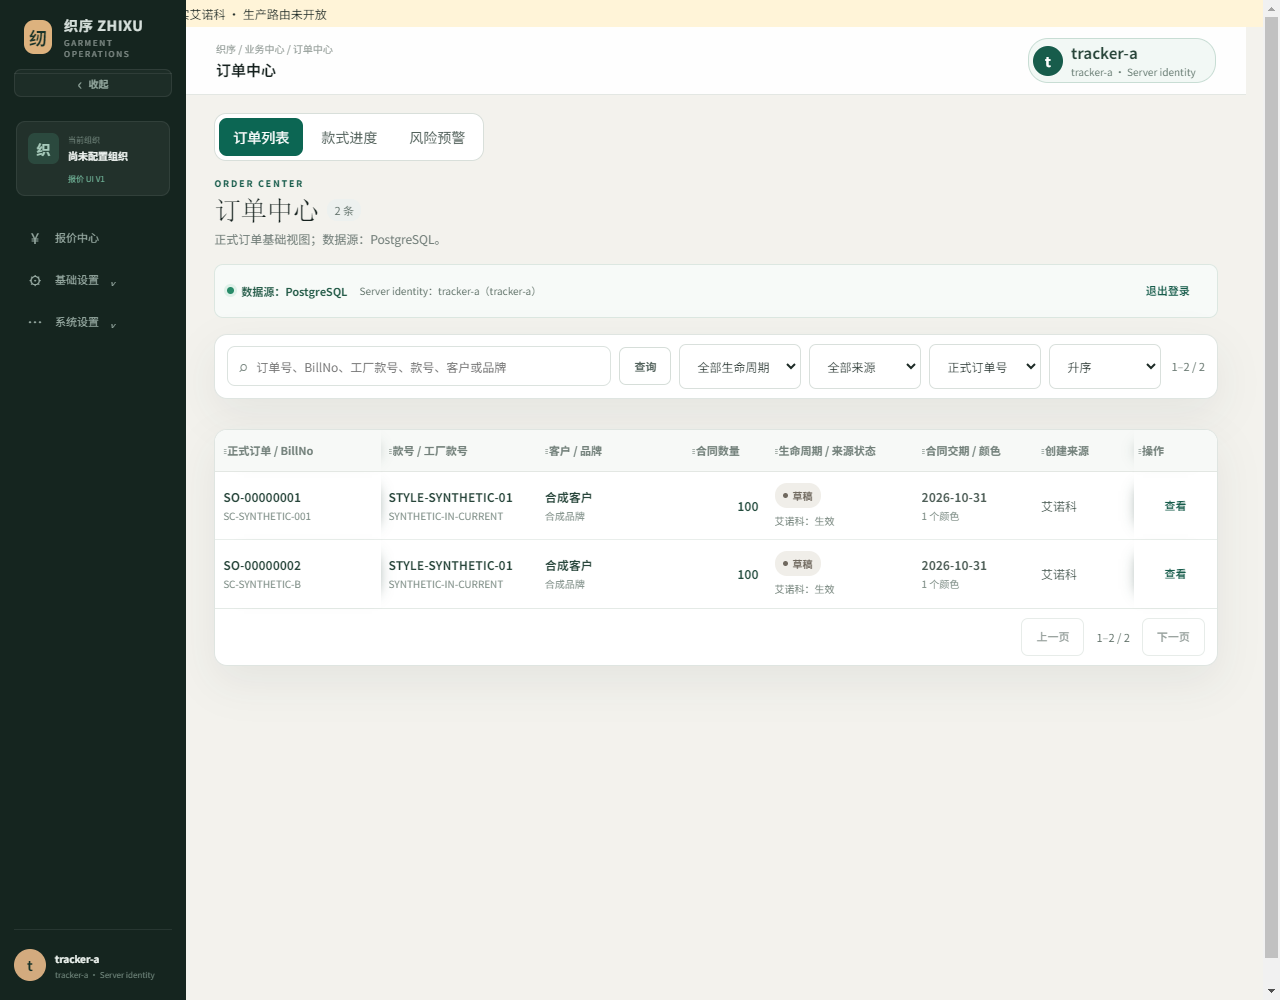
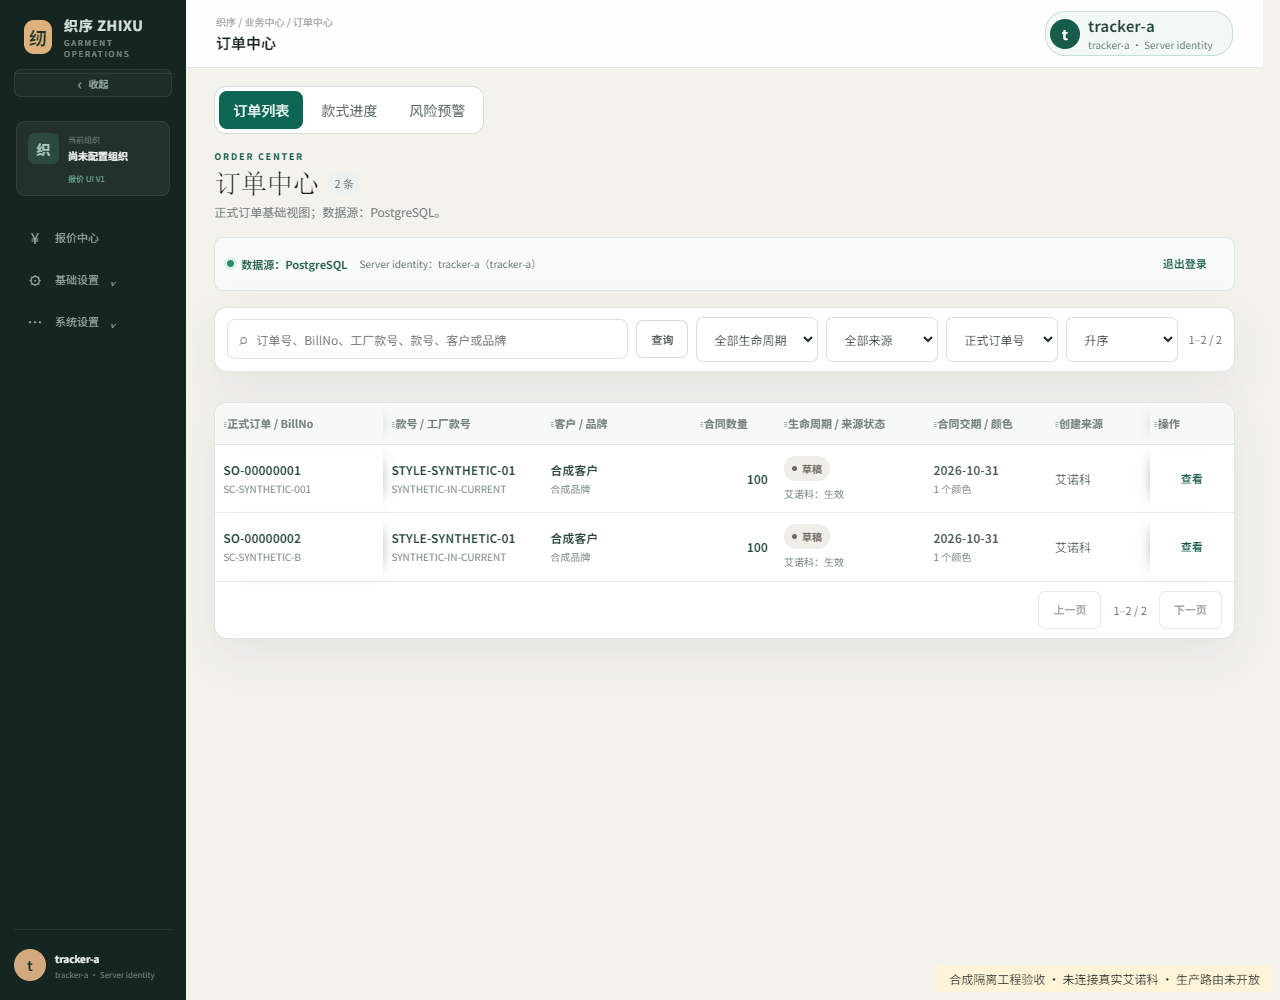
fix(order): compact detail and collapse technical source facts

diff --git a/features/order-center/components/server-sales-order-detail-page.tsx b/features/order-center/components/server-sales-order-detail-page.tsx
@@ -272,11 +272,7 @@ export function ServerSalesOrderDetailPage({ executionOnly = false }: { executio
 
   return (
     <ServerDetailFrame detail={detail}>
-      <div className="oc-server-source-bar">
-        <span><i aria-hidden="true" />数据源：PostgreSQL</span>
-        <small>Server identity：{trustedIdentity}</small>
-        <Button variant="text" onClick={() => void logout()}>退出登录</Button>
-      </div>
+
       {sessionActionError && <ErrorState description={sessionActionError} />}
       {loading ? (
         <LoadingState label="读取 PostgreSQL 正式订单详情" />
@@ -286,62 +282,26 @@ export function ServerSalesOrderDetailPage({ executionOnly = false }: { executio
         <ErrorState title="订单服务暂时不可用" description={error} onRetry={() => void loadDetail()} />
       ) : detail ? (
         <div className="oc-server-detail-content">
-          <Card className="oc-server-detail-section oc-server-detail-zhixu">
-            <header>
-              <div><small>ZHIXU FACTS</small><h2>织序订单事实</h2></div>
-              <span>Server-owned · 只读</span>
-            </header>
-            <DescriptionList columns={3} items={[
-              { key: "orderNo", label: "正式订单号", value: detail.orderNo, secondary: `UUID ${detail.id}` },
-              { key: "version", label: "数据版本", value: `v${detail.version}` },
-              { key: "lifecycle", label: "织序生命周期", value: lifecycleLabels[detail.lifecycleState], secondary: detail.lifecycleState },
-              { key: "creationSource", label: "创建来源", value: creationSourceLabels[detail.creationSource], secondary: detail.creationSource },
-              { key: "createdAt", label: "创建时间", value: detail.createdAt },
-              { key: "updatedAt", label: "更新时间", value: detail.updatedAt },
-            ]} />
-          </Card>
-
-          <Card className="oc-server-detail-section oc-server-detail-source">
-            <header>
-              <div><small>AINUOKE SOURCE FACTS</small><h2>艾诺科来源事实</h2></div>
-              <span>来源权威 · 不可编辑</span>
-            </header>
-            <DescriptionList columns={3} items={[
-              { key: "billNo", label: "BillNo", value: detail.billNo },
-              { key: "insideOrderNo", label: "工厂单号 / InsideOrderNo", value: detail.insideOrderNo, secondary: "可变来源属性，不是稳定订单身份" },
+          <Card className="oc-server-detail-section oc-server-detail-zhixu oc-server-detail-overview">
+            <header><div><h2>订单概况</h2></div><span>来源权威 · 不可编辑</span></header>
+            <DescriptionList columns={3} compact items={[
               { key: "styleNo", label: "款号", value: detail.styleNo },
-              { key: "company", label: "公司", value: detail.companyName },
+              { key: "orderNo", label: "正式订单号", value: detail.orderNo },
+              { key: "billNo", label: "BillNo", value: detail.billNo },
               { key: "customer", label: "客户", value: detail.customerName },
               { key: "brand", label: "品牌", value: detail.brandName },
               { key: "quantity", label: "订单数量（来源只读）", value: detail.quantity?.toLocaleString("zh-CN") },
-              { key: "contractDate", label: "合同日期", value: detail.contractDate },
-              { key: "contractDelivery", label: "工艺单交期（来源）", value: detail.contractDeliveryDate },
+              { key: "contractDelivery", label: "合同交期（来源）", value: detail.contractDeliveryDate },
+              { key: "lifecycle", label: "订单状态", value: lifecycleLabels[detail.lifecycleState] },
               { key: "sourceLifecycle", label: "艾诺科状态", value: detail.sourceLifecycleStatus },
-              { key: "colorCount", label: "有效颜色数", value: detail.colorCount.toLocaleString("zh-CN") },
             ]} />
           </Card>
-
-          <OrderMaterialSummary salesOrderId={detail.id} />
-          {!executionOnly && <Card className="oc-server-detail-section oc-server-detail-commercial-terms">
-            <header>
-              <div><small>SERVER CURRENT TERMS</small><h2>确认商业条款</h2></div>
-              <span>PostgreSQL · v{terms?.current?.version ?? 0}</span>
-            </header>
-            <DescriptionList columns={3} items={[
-              { key: "customerConfirmedPrice", label: "客户确认价格", value: commercialAmount(terms?.current?.customerConfirmedPrice ?? null, "CNY") },
-              { key: "confirmedLaborPrice", label: "确认工价", value: commercialAmount(terms?.current?.confirmedLaborPrice ?? null, terms?.current?.laborCurrency ?? "币种未指定") },
-              { key: "termsLinkage", label: "共享范围", value: terms?.linkage === "linked" ? "精确 Quote provenance 共享" : "仅当前 SalesOrder", secondary: terms?.linkage === "linked" ? `${terms.associatedSalesOrderIds.length} 张正式订单共享` : "未伪造 Quote 关联" },
-            ]} />
-            {serverSession.hasPermission("order.edit")
-              ? <Button variant="secondary" onClick={openTermsEditor}>编辑确认商业条款</Button>
-              : <small>当前账号仅有 order.view；确认商业条款只读。</small>}
-          </Card>}
-
           <Card className="oc-server-detail-section oc-server-detail-colors">
             <header>
-              <div><small>COLOR SOURCE SLICE</small><h2>颜色明细</h2></div>
+              <div><h2>颜色明细</h2></div>
               <span>{detail.colors.length} 个颜色 · 来源只读</span>
             </header>
+            <p className="oc-server-color-note">分码数据尚未接线；不依据颜色数量推算尺码。</p>
             {detail.colors.length === 0 ? (
               <EmptyState compact title="当前订单主档有效；颜色明细暂无有效数据。" description="颜色 enrichment 为空不影响 SalesOrder master 有效性。" />
             ) : (
@@ -358,6 +318,45 @@ export function ServerSalesOrderDetailPage({ executionOnly = false }: { executio
               </div>
             )}
           </Card>
+
+          <OrderMaterialSummary salesOrderId={detail.id} />
+          <Card className="oc-server-detail-section">
+            <details className="oc-server-technical-details">
+              <summary>来源与技术详情 <span>只读</span></summary>
+              <DescriptionList columns={3} compact items={[
+                { key: "uuid", label: "UUID", value: detail.id },
+                { key: "version", label: "数据版本", value: `v${detail.version}` },
+                { key: "creationSource", label: "创建来源", value: creationSourceLabels[detail.creationSource], secondary: detail.creationSource },
+                { key: "lifecycleCode", label: "生命周期原值", value: detail.lifecycleState },
+                { key: "insideOrderNo", label: "工厂单号 / InsideOrderNo", value: detail.insideOrderNo, secondary: "可变来源属性，不是稳定订单身份" },
+                { key: "company", label: "公司", value: detail.companyName },
+                { key: "contractDate", label: "合同日期", value: detail.contractDate },
+                { key: "colorCount", label: "有效颜色数", value: detail.colorCount.toLocaleString("zh-CN") },
+                { key: "createdAt", label: "创建时间", value: detail.createdAt },
+                { key: "updatedAt", label: "更新时间", value: detail.updatedAt },
+              ]} />
+              <div className="oc-server-source-bar">
+                <span><i aria-hidden="true" />数据源：PostgreSQL</span>
+                <small>Server identity：{trustedIdentity}</small>
+                <Button variant="text" onClick={() => void logout()}>退出登录</Button>
+              </div>
+            </details>
+          </Card>
+          {!executionOnly && <Card className="oc-server-detail-section oc-server-detail-commercial-terms">
+            <header>
+              <div><small>SERVER CURRENT TERMS</small><h2>确认商业条款</h2></div>
+              <span>PostgreSQL · v{terms?.current?.version ?? 0}</span>
+            </header>
+            <DescriptionList columns={3} items={[
+              { key: "customerConfirmedPrice", label: "客户确认价格", value: commercialAmount(terms?.current?.customerConfirmedPrice ?? null, "CNY") },
+              { key: "confirmedLaborPrice", label: "确认工价", value: commercialAmount(terms?.current?.confirmedLaborPrice ?? null, terms?.current?.laborCurrency ?? "币种未指定") },
+              { key: "termsLinkage", label: "共享范围", value: terms?.linkage === "linked" ? "精确 Quote provenance 共享" : "仅当前 SalesOrder", secondary: terms?.linkage === "linked" ? `${terms.associatedSalesOrderIds.length} 张正式订单共享` : "未伪造 Quote 关联" },
+            ]} />
+            {serverSession.hasPermission("order.edit")
+              ? <Button variant="secondary" onClick={openTermsEditor}>编辑确认商业条款</Button>
+              : <small>当前账号仅有 order.view；确认商业条款只读。</small>}
+          </Card>}
+
           {!executionOnly && <Modal
             open={termsOpen}
             title="编辑确认商业条款"

diff --git a/app/order-center/order-center.css b/app/order-center/order-center.css
@@ -461,3 +461,22 @@
   .oc-color-adjustments { grid-template-columns: 1fr; }
   .oc-color-change-history li { align-items: flex-start; flex-direction: column; }
 }
+
+/* Formal detail display only: retain facts behind a native collapsed disclosure. */
+.oc-server-technical-details > summary { display: flex; align-items: center; justify-content: space-between; gap: 12px; padding: 13px 18px; color: #35584b; cursor: pointer; font-size: 12px; font-weight: 650; }
+.oc-server-technical-details > summary > span::after { content: " ▸"; }
+.oc-server-technical-details[open] > summary > span::after { content: " ▾"; }
+.oc-server-technical-details > summary > span { color: #77847f; font-size: 10px; font-weight: 400; }
+.oc-server-technical-details[open] > summary { border-bottom: 1px solid #e1e8e4; }
+.oc-server-technical-details .qc-detail-row dd { overflow-wrap: anywhere; }
+.oc-server-technical-details .oc-server-source-bar { margin: 0 18px 16px; }
+.oc-server-color-note { margin: 10px 18px 0; color: #77847f; font-size: 11px; }
+
+/* Bind existing named header areas so Foundation mobile placement cannot overlap them. */
+.oc-server-detail-page .qc-page-header[data-variant="list"] > .qc-page-back { grid-area: back; }
+.oc-server-detail-page .qc-page-header[data-variant="list"] > .qc-page-identity { grid-area: identity; }
+.oc-server-detail-page .qc-page-header[data-variant="list"] > .qc-page-actions { grid-area: actions; }
+.oc-server-detail-colors .oc-server-color-table table { min-width: 0; table-layout: fixed; }
+.oc-server-detail-material-summary > p { margin: 12px 18px; color: #6b7973; font-size: 11px; }
+.oc-server-detail-material-summary .sp-server-summary { padding: 0 18px 8px; }
+.oc-server-detail-material-summary > button { margin: 0 5px 8px; }

diff --git a/features/ainuoke-material-progress/order-material-summary.tsx b/features/ainuoke-material-progress/order-material-summary.tsx
@@ -16,7 +16,7 @@ export function useOrderMaterial(id: string) {
 }
 export function OrderMaterialSummary({salesOrderId}:{salesOrderId:string}) {
   const state=useOrderMaterial(salesOrderId); const route=orderMaterialNavigation(salesOrderId);const view=state.model?.progress;
-  return <Card className="oc-server-detail-section"><header><div><small>EXECUTION FACTS · READ ONLY</small><h2>物料采购汇总</h2></div>{route&&<a className="qc-button qc-button-text" href={route.detailHref}>查看物料跟进 →</a>}</header>
+  return <Card className="oc-server-detail-section oc-server-detail-material-summary"><header><div><small>EXECUTION FACTS · READ ONLY</small><h2>物料采购汇总</h2></div>{route&&<a className="qc-button qc-button-text" href={route.detailHref}>查看物料跟进 →</a>}</header>
     {state.loading?<p>读取物料来源…</p>:state.error?<p role="status">{state.error}</p>:view&&<><p role="status">{view.message} · 来源读取 {view.fetchedAt??'—'}</p><div className="sp-server-summary">{(['fabric','trim'] as const).map(type=><section key={type}><strong>{type==='fabric'?'面料':'辅料'} {view.summary[type].demands} 项</strong><span>{Object.entries(materialStateLabels).map(([key,label])=><small key={key}>{label} {view.summary[type].states[key as keyof typeof materialStateLabels]}　</small>)}<small>未知 {view.summary[type].unknown}</small></span></section>)}</div></>}
     <button className="qc-button qc-button-text" onClick={state.reload}>刷新来源</button>
   </Card>;

diff --git a/features/ainuoke-material-progress/integration-preview/main.tsx b/features/ainuoke-material-progress/integration-preview/main.tsx
@@ -11,4 +11,4 @@ import '@/app/order-center/order-center.css';
 import '@/app/order-center/style-progress/style-progress.css';
 import '@/app/foundation.css';
 const page=location.pathname.includes('/style-progress/detail')?<ServerStyleProgressDetailPage/>:location.pathname.includes('/server-detail')?<ServerSalesOrderDetailPage executionOnly/>:<ServerOrderCenterPage/>;
-createRoot(document.getElementById('root')!).render(<ServerSessionProvider><TrustedPermissionProvider><div style={{background:'#fff4d8',padding:'5px 16px',fontSize:12}}>合成隔离工程验收 · 未连接真实艾诺科 · 生产路由未开放</div>{page}</TrustedPermissionProvider></ServerSessionProvider>);
+createRoot(document.getElementById('root')!).render(<ServerSessionProvider><TrustedPermissionProvider><div style={{position:'fixed',right:8,bottom:8,zIndex:1000,maxWidth:'calc(100vw - 16px)',background:'#fff4d8',padding:'5px 12px',fontSize:12}}>合成隔离工程验收 · 未连接真实艾诺科 · 生产路由未开放</div>{page}</TrustedPermissionProvider></ServerSessionProvider>);

diff --git a/docs/tasks/active/order-material-p6-restoration.md b/docs/tasks/active/order-material-p6-restoration.md
@@ -23,3 +23,13 @@ Actual browser7/7,71assertions,0skipped and typecheck PASS. Desktop toolbar now 
 The first green-attempt checked control top edges and incorrectly rejected different native input/button heights despite common centers. Changed measurement to vertical center with stricter5px threshold; final centers are exactly equal. This is a metric correction, not a CSS workaround or relaxed business/security test.
 
 Desktop1440/1280 and390 screenshots visually inspected: compact one-row toolbar, one table, green sidebar/warm gray/white card, no duplicated records. This satisfies the listed P6 structure checks, **not user acceptance or pixel-level original-image comparison**. The two synthetic orders are intentionally unchanged; no real511-order data accessed.
+
+## Gate 2 — compact formal detail, facts retained
+
+Gate1 checkpoint2e0960cd79b64d91591a3a58a533f144528fbfe3 pushed normally. Reordered the same detail into overview → color summary → existing material summary → native collapsed Source/technical details. UUID/version/creation-source/raw lifecycle/InsideOrderNo/company/contract date/created+updated times and trusted identity remain readable on expansion. Existing commercial executionOnly gate stays intact; no API/DB/permission/source logic change. Garment size remains explicitly not connected; existing unconfirmed color delivery field is not promoted into UI.
+
+Initial detail run checked hidden content height and failed because Chromium keeps internal rectangles for native closed-details content; switched to actual checkVisibility=false and body.innerText omission. Expanded UUID/version/time visibility and re-collapse are asserted. The subsequent7/7,98assertions result was **visually rejected by Codex screenshot inspection**:390 return/title overlap and global1000px minimum width hid color quantity. It was not accepted as a visual Gate success.
+
+Fixed only scoped display rules: bind original named header areas, reset two-column formal color table minimum width, add summary padding/disclosure arrow. Synthetic preview notice now floats outside layout, so it neither hides behind fixed sidebar nor creates an extra page scroller. Real final browser7/7,104assertions,0skipped; desktop overview3columns/mobile1, return/identity rectangles never overlap, both color columns fit, technical fields actually hidden/default and readable/expanded. Typecheck/lint0warnings PASS; full npm757/757 was run this round and remains recorded separately from the subsequent minor display fix.
+
+Desktop and390 detail screenshots now visually checked after the fix. **USER UI ACCEPTANCE PENDING**; no claim that user has approved them. Material display changes are isolated in the following Gate3 checkpoint.

diff --git a/docs/AI_HANDOFF.md b/docs/AI_HANDOFF.md
@@ -2,7 +2,7 @@
 
 ## Active — PR #92 P6 UI restoration / user acceptance PENDING (2026-10-11)
 
-User rejected the prior night visual result. Real computed-style red test proves the isolated entry omitted foundation.css: desktop toolbar block/412px and both table+mobile records visible. Original missing CSS restored and computed-style/list regression7/7,71assertions PASS; next compact technical metadata; no business/API/schema/security-policy change. [Current repair evidence](tasks/active/order-material-p6-restoration.md). Existing inherited Gate1 dirty remains untouched. #92 Draft; production routes/real Source and commercial permission repair remain pending.
+User rejected the prior night visual result. Real computed-style red test proves the isolated entry omitted foundation.css: desktop toolbar block/412px and both table+mobile records visible. Original missing CSS restored and computed-style/list regression7/7,71assertions PASS; compact detail/technical disclosure now verified with non-overlap/color-width checks; user UI acceptance still PENDING; no business/API/schema/security-policy change. [Current repair evidence](tasks/active/order-material-p6-restoration.md). Existing inherited Gate1 dirty remains untouched. #92 Draft; production routes/real Source and commercial permission repair remain pending.
 ## Active — PR #92 isolated Order/Material integration (2026-10-11)
 
 PR #91 is MERGED at fcf36e5eab6c78254f808c1cba38f3a63a66d4f8; #92 ordinary merge checkpoint d321e0700b97d007f812bd5333a4bb6d86f43640. Actual order list/detail → same material summary → shared readonly Control Tower → UUID return passed isolated session HTTP and private Chromium. Source78/78, HTTP/CCT/exposure audit19/19, UI7/7 with43 assertions, npm757/757 and quality builds PASS. **SECURITY GATE PENDING / SYNTHETIC UI ACCEPTANCE PENDING**: legacy commercial GET exposure is reproduced, not repaired; default Source capability and production route activation remain disabled. [Full checkpoints, remote receipt, evidence and manual driver](tasks/active/order-material-night-integration.md). Keep Draft; inherited order-material-read-gate1.md 30-line dirty remains unstaged with original hash. No Preview or real-data operation; only owned disposable PG16 was migrated and cleaned.
